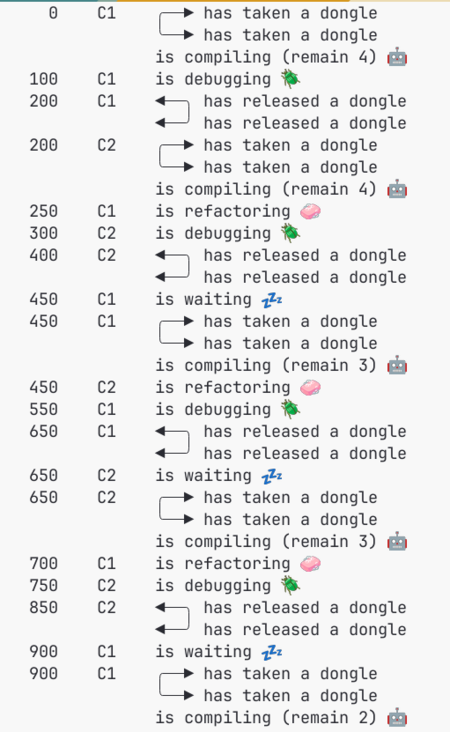
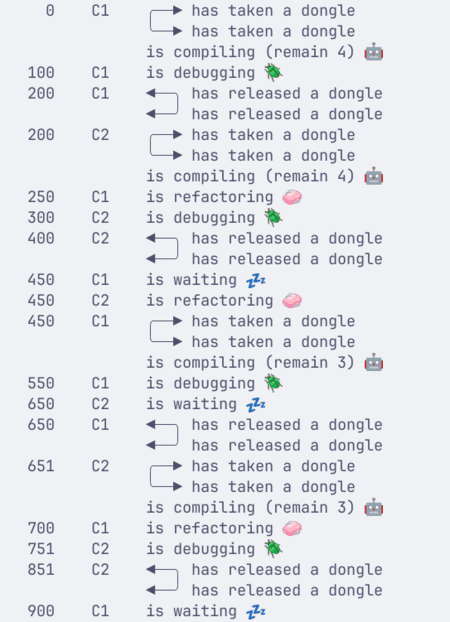
Up loop temporization

diff --git a/coder/coder.c b/coder/coder.c
@@ -77,11 +77,11 @@ void	*coder_thread(void *c)
 			merge_coder_data(coder_data, coder);
 			previous = coder_data;
 		}
-		if (coder_data.status == DONE && coder->timestamp_release_dongles <= 0)
-			break ;
 		if (coder_data.status == BURNOUT || coder_data.status == KILLED)
 			break ;
-		usleep(2);
+		if (coder_data.status == DONE && coder->timestamp_release_dongles <= 0)
+			break ;
+		usleep(11);
 	}
 	return (NULL);
 }

diff --git a/codex/codexion.c b/codex/codexion.c
@@ -74,6 +74,6 @@ void	run(t_codexion *codexion, t_data *data)
 		{
 			start_coder(codexion, data, index_to_start);
 		}
-		usleep(2);
+		usleep(421);
 	}
 }

diff --git a/README.md b/README.md
@@ -142,7 +142,7 @@ we can predict the evolution which should be the same for fifo or edf:
 ##### 5 coders
 With an odd amount of coders, the more complicated:  
 ``` Bash
-    ./codexion 5 400 100 150 200 5 100 fifo
+    ./codexion 5 450 100 150 200 5 100 fifo
 ```
 <div align="center">
     <img src="./images/codexion_5_coders.excalidraw.png">
